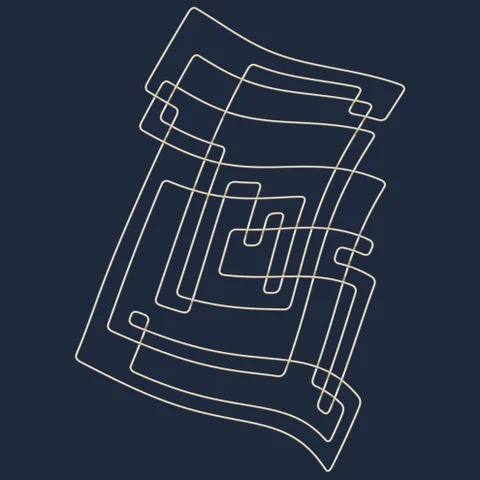
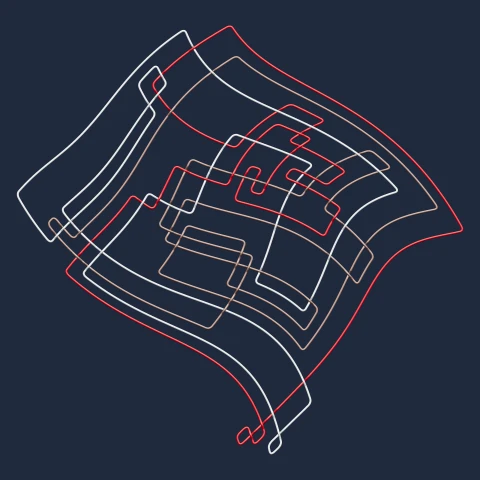
fix(site): clarify knots failure example
Replace the ambiguous monochrome ring scene with a traceable Core sample whose red, white, and brown rings remain legible at card size. Keep the quote and verdict aligned with the same labeled Gemini failure.

diff --git a/src/data/site.ts b/src/data/site.ts
@@ -248,12 +248,18 @@ export type ErrorModel = (typeof ERROR_MODELS)[number];
 type ErrorCounts = Record<string, Record<ErrorModel, number>>;
 export const ERRORS = paper.errors as { reasoning: ErrorCounts; planning: ErrorCounts };
 
-/** One labeled failure per category (figure 5 of the paper). */
+/** One labeled failure per category. The Knots card uses Core sample
+ * knots_static_v3_e74116eba68cf6ee so its three colored rings remain legible
+ * at website-card size. Other examples follow figure 5 of the paper. */
 export const ERROR_EXAMPLES: Record<string, { task: string; quote: string; verdict: string; wide?: boolean }> = {
   instruction: { task: 'Sheep', quote: '“my final answer is that four sheep are trapped”', verdict: 'Output cut off; answers “unclear” (GT 4).' },
   task: { task: 'Assembly', quote: '“…the top shelf floating. Invalid. The subassemblies must be connected.”', verdict: 'Adds an unstated connectivity rule; rejects split A, answers C.', wide: true },
   perception: { task: 'Hole', quote: '“a cylindrical object inside, … Total is 8.”', verdict: 'That bar makes two holes; answers 8 (GT 9).' },
-  invariance: { task: 'Knots', quote: '“… sequence indicates they are linked.”', verdict: 'Three free rings; answers C (GT A).' },
+  invariance: {
+    task: 'Knots',
+    quote: '“The alternating under/over pattern … is a key indicator of linkage.”',
+    verdict: 'After removing brown, red and white are both free; answers ["none"].',
+  },
   feature: { task: '2D Maze', quote: '“the green bar appears to be the critical one”', verdict: 'Orange and blue also work; answers [green].' },
   dynamic: { task: 'Chat Noir', quote: '{"answer": 20} ×3', verdict: 'Three turns on the same cell; illegal, the cat escapes.' },
   action: { task: 'Pipe', quote: '“I’ve been rotating (1,0) in a cycle.”', verdict: 'Spins (1,0) a full turn; budget spent.' },
